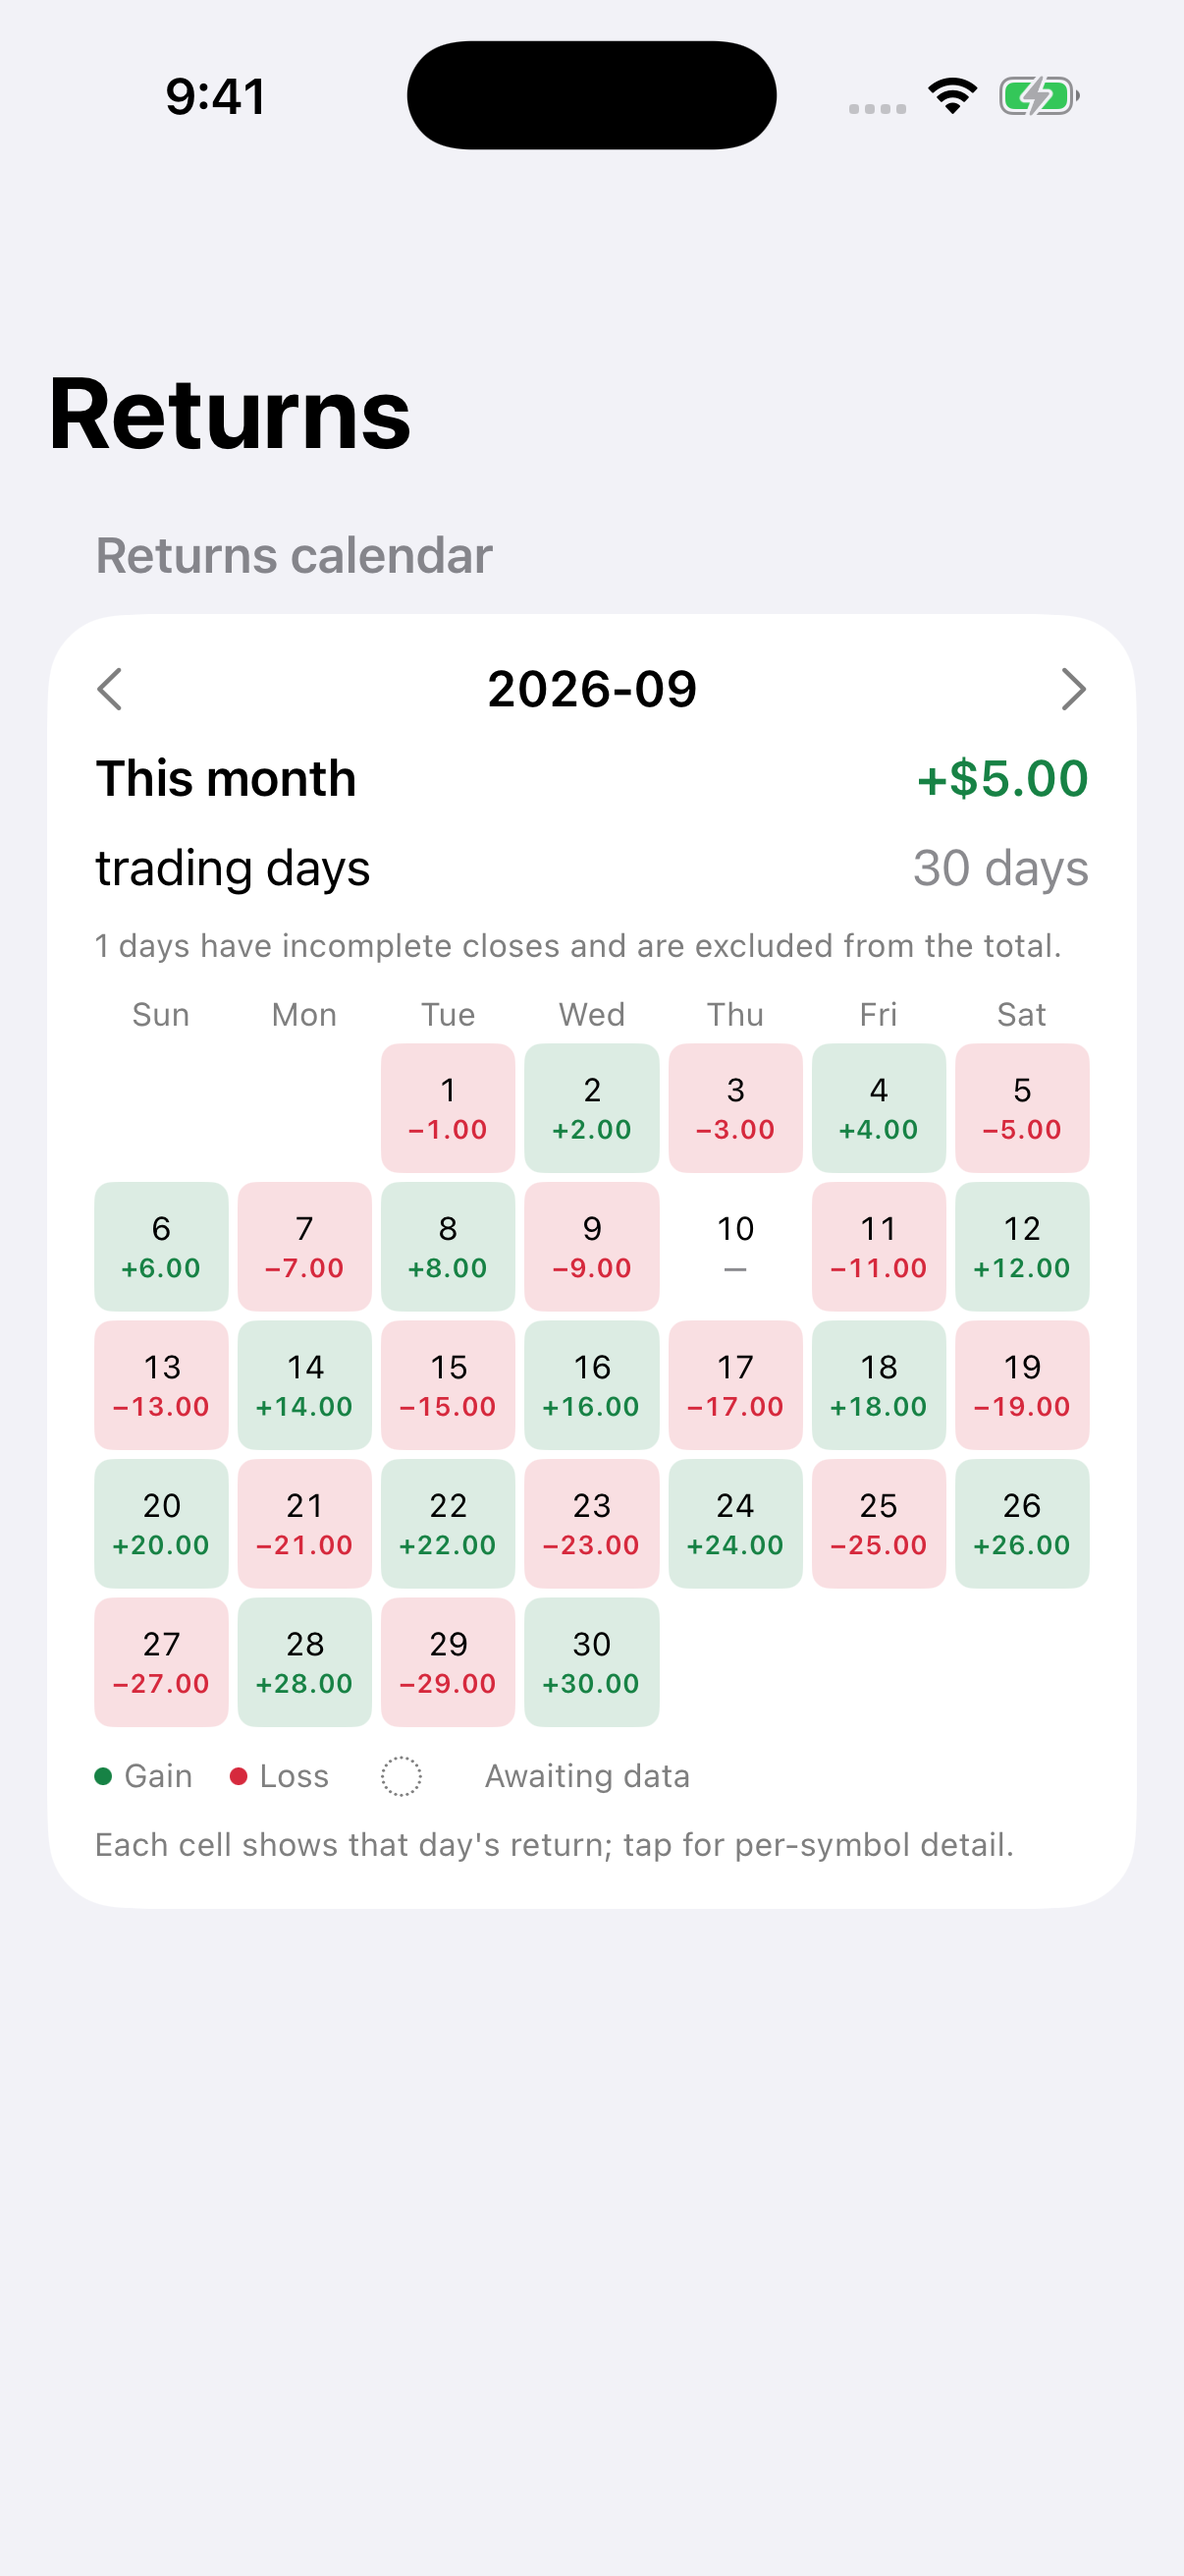
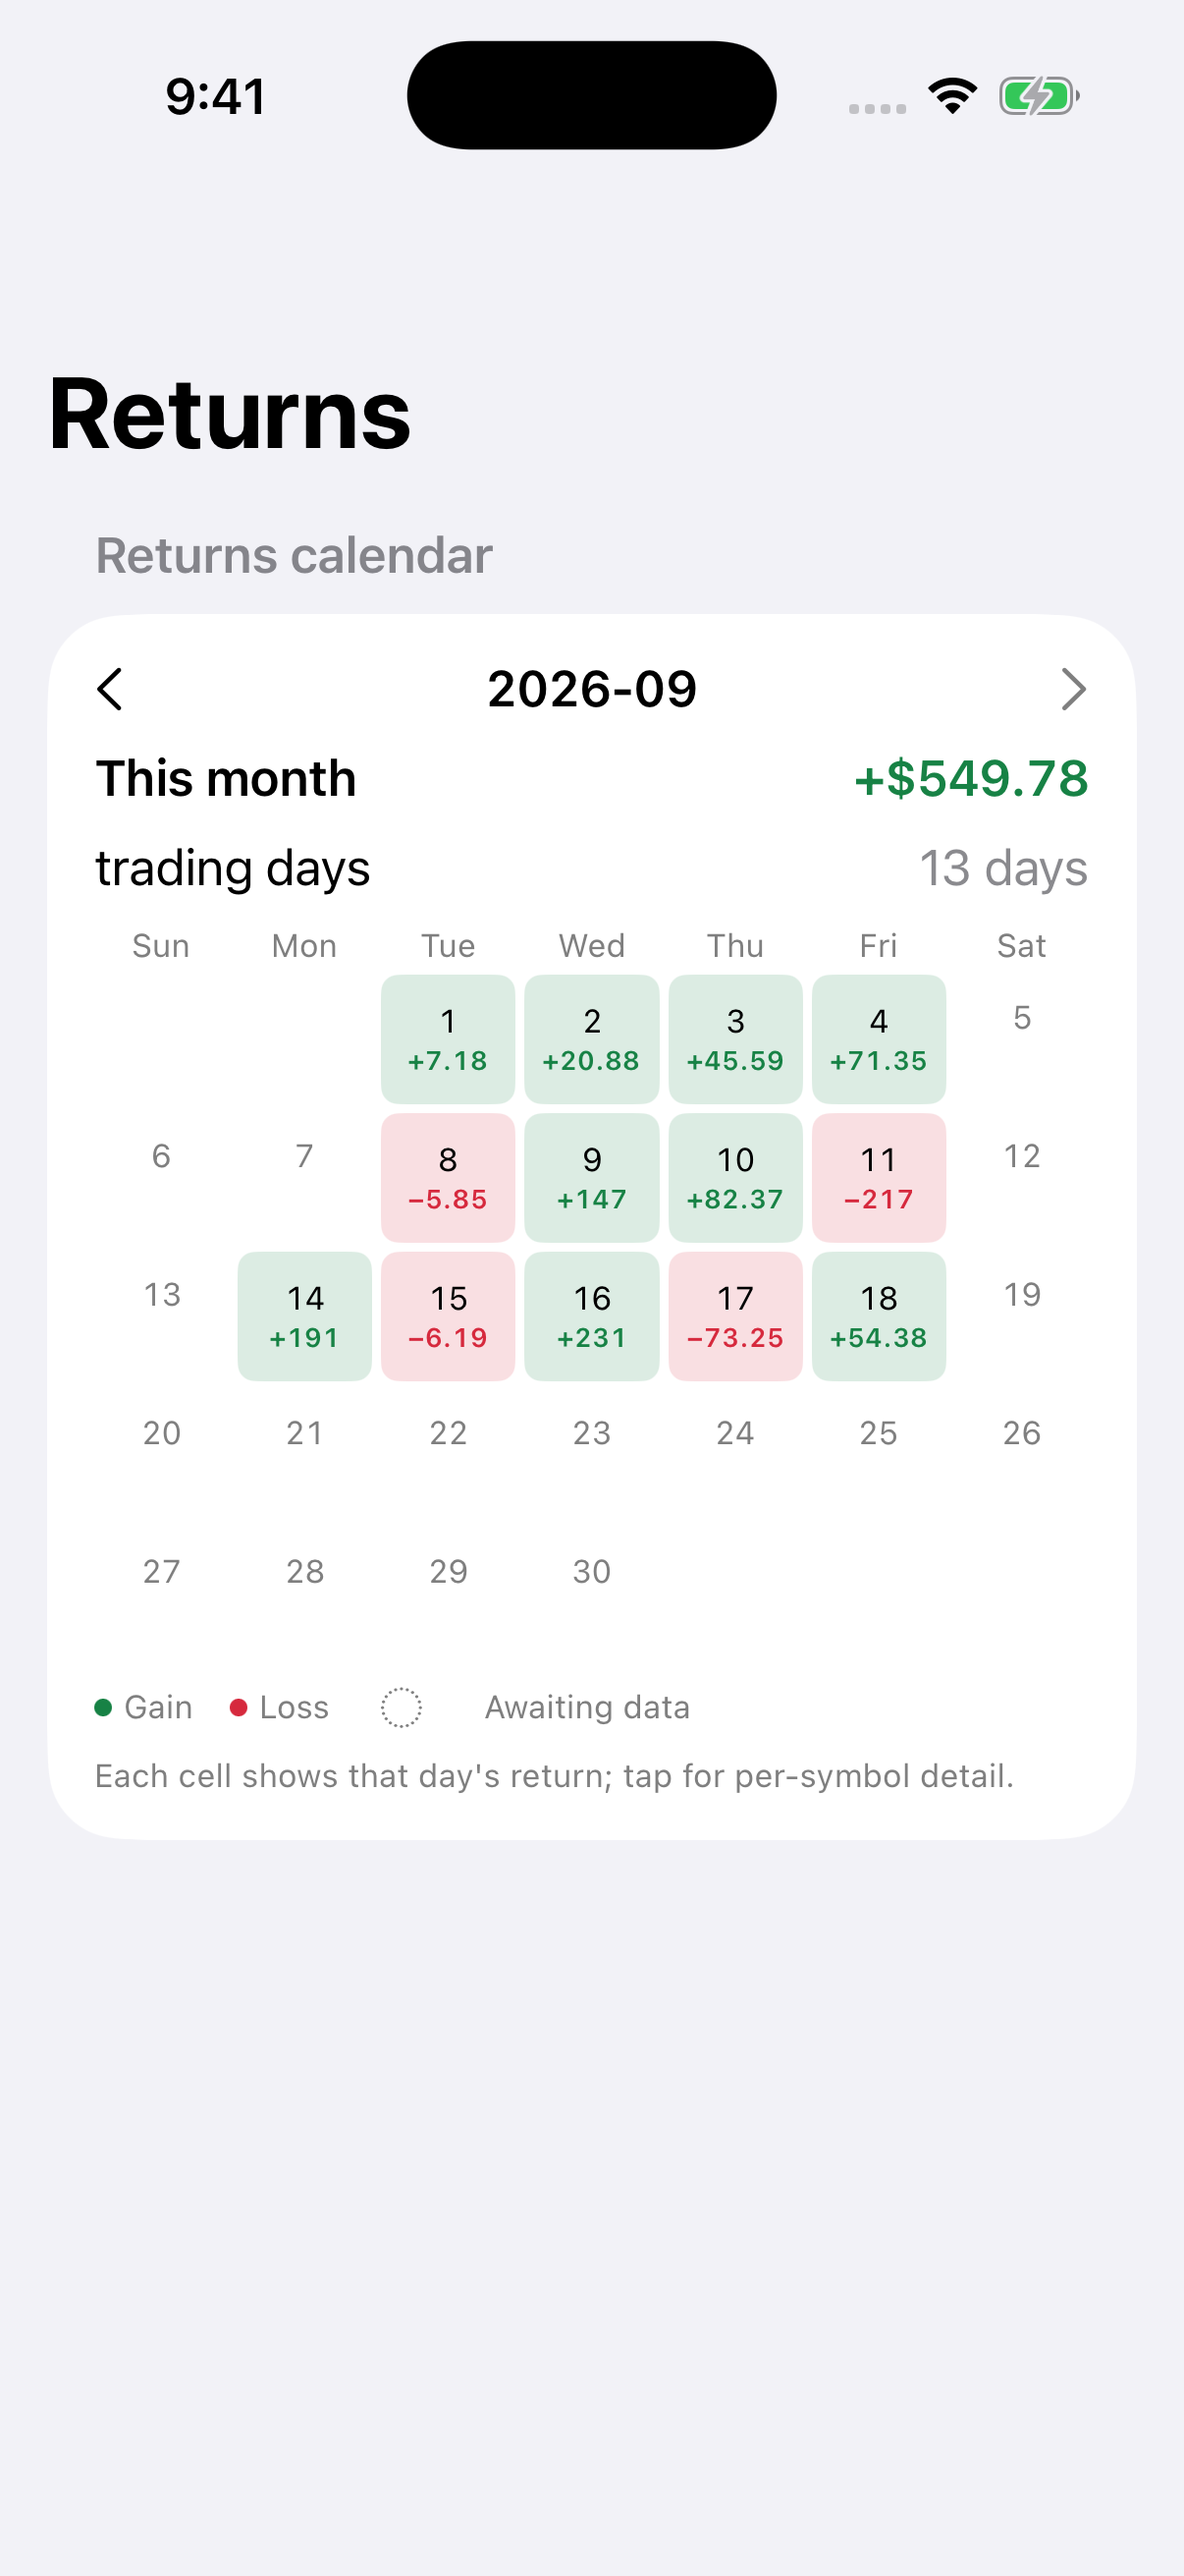
docs: add the Phase 2 review and refresh the app screenshots from the demo ledger

diff --git a/docs/PHASE_2_REVIEW.md b/docs/PHASE_2_REVIEW.md
@@ -1,0 +1,94 @@
+# Phase 2 — Portfolio Screenshot Optimization · Review
+
+> 基线：`portfolio/demo-mode` @ `d23e65c`（Phase 1 收尾）。
+> 本阶段分支：`portfolio/screenshots`（`4478957` + `caee2f0`）。**未触碰 `main`**。
+> 范围：任务书 §7 Phase 2、§13 Screenshots。
+> 出图链路：`scripts/test-screenshots.sh`（macOS 模拟器）→ CI artifact `App-screenshots` → 人工核对后落回 `docs/screenshots/`。
+
+## Files Changed
+
+### 提交 1 — `4478957` `feat(screenshots): shoot every screen from the demo ledger and add the import screen`
+
+| 文件 | 变化 | 说明 |
+| --- | --- | --- |
+| `tests/native/ScreenshotsApp.swift` | 改写取数方式 | 不再注入账本，改走真实 Demo Mode；删掉手写的 `sampleDays`；新增 `import` 屏 |
+| `ios/App/App/StockLedger/ImportView.swift` | +11 | 新增 `static var prefillOverride` 截图接缝（与 `LedgerStore.fileURLOverride` 同类，正常运行时恒为空串） |
+| `scripts/test-screenshots.sh` | +16 / −2 | 截图列表加入 `import`；新增「缺图 / 疑似空白画面即失败」守卫 |
+
+### 提交 2 — `caee2f0` `fix(l10n): translate the import field labels and the stale-quote hint, and keep the calendar screenshot live`
+
+| 文件 | 变化 | 说明 |
+| --- | --- | --- |
+| `tests/native/ScreenshotsApp.swift` | 新增 `CalendarOnlyView` | 日历屏改为订阅 `AppState` 的 `View`（根因见下） |
+| `ios/App/App/StockLedger/L10n.swift` | +6 | 6 个导入字段名的英文译文 |
+| `ios/App/App/StockLedger/HoldingsView.swift` | +2 / −1 | 不再把日期插进 L10n key |
+| `scripts/test-screenshots.sh` | +8 | 日历屏必须有收益数据才放行 |
+
+## §7 对照
+
+§7 要求 Demo Mode 下各页「不为空、不报错、没有明显布局问题、数字格式一致、日期格式一致、盈亏显示正确、没有 Debug 信息、没有 Placeholder、没有 Test Data 字样」。
+
+出图清单与 §7 页面一一对应（`scripts/test-screenshots.sh` 的循环即清单）：
+
+| §7 页面 | 截图 | 数据来源 | 结论 |
+| --- | --- | --- | --- |
+| Dashboard / Portfolio | `holdings.png` | 示例账本 + 自带报价 | 有 5 个持仓、今日盈亏、浮动/已实现收益；**不再出现 `Awaiting data` / `Missing previous close` / `No ledger backup yet`**（示例模式本就隐藏备份提醒） |
+| Transaction History | `trades.png` | 示例账本 32 笔 | 汇总与列表都有数据；日期与金额格式统一 |
+| Daily P&L Calendar | `calendar.png` | 示例账本重放的每日收益 | 2026-09：本月 +$549.78、13 个交易日、逐日红绿格子与图例（见下方缺陷 1） |
+| Performance Chart | `returns.png` | 同上 | 累计收益曲线与现金账本都有数据 |
+| Import | `import.png` | 虚构券商 CSV（`ScreenshotsApp.importCSV`） | 三步流程可见：识别到 8 列 · 6 行、字段映射、`Import 5 rows`（5 行可导入 + 1 行负数数量报错） |
+| Settings | `settings.png` | 示例账本 32 笔交易 / 12 笔流水 | 分区与数值完整 |
+
+示例数据的备注本身就带 `Sample:` 前缀（`L10n.swift:397-405`），不存在「把虚构数据当真实数据」的表述问题。
+
+## 核对产物时查出的两个缺陷
+
+出图这一步的价值就在这里：这两个问题在「CI 绿 + 图有 100+ KB」的前提下都能通过，只有把 PNG 打开逐张看才会暴露。
+
+### 缺陷 1：日历截图是空态
+
+**现象**（首次 CI 的 `calendar.png`）：显示 `No history synced yet. Sync to see daily and monthly returns.`。
+
+**根因**：不是数据问题，是我自己在 harness 里写的取数方式。原先写成普通函数 `calendarList(state)`，把 `state` 当参数传进来、在视图层级里直接读 `state.insights` —— 这种写法 **SwiftUI 不会订阅 `AppState`**，`derived` 在后台算完后这一屏不刷新，于是永远停在第一帧（空态）。日志可证：6 屏都完整走完 `HARNESS-START → state-ready → rootVC-set → key-visible → alive+3s`，没有崩溃，纯粹是没订阅。
+
+**修复**：拆出 `private struct CalendarOnlyView: View`，用 `@EnvironmentObject private var state: AppState` 持有状态（与 `InsightsView` 同一个模式）。修好后 `calendar.png` 从 108 KB 变成 204 KB，内容是真日历。
+
+### 缺陷 2：英文界面里混着中文
+
+**现象**（首次 CI 的 `import.png`）：`Date (required)` 旁边是 `代码 (required)`、`数量 (required)`、`单价 (required)`。
+
+**根因 A**：`代码` / `数量` / `单价` / `币种` / `成交编号` / `流水编号` 这 6 个 `TradeField` / `CashField` 标签在 `L10n` 里没有英文译文，`L10n.tr` 查不到就原样显示中文。已补齐。
+
+**根因 B**（顺手 grep 全部调用点发现，只有 1 处）：`HoldingsView.swift:189` 把日期插进了 key —— `L10n.tr("报价较早（\(quote.date)），可用下方按钮同步最新行情。")`。`L10n.tr` 查的是静态字典，插值后的 key 永远查不到，英文界面必然显示中文。`L10n.swift:333-334` 里本来就备好了两段译文，说明原意就是拼接。已改为按两段拼接。
+
+## 新增的持续守卫
+
+`scripts/test-screenshots.sh` 现在有两道守卫（原来的脚本只负责出图，出成什么样都算过）：
+
+1. **体积守卫**：6 张图缺一张、或小于 20 KB（疑似白屏）即 `FAIL`。
+2. **日历数据守卫**：harness 在启动 3 秒后打印 `HARNESS derived screen=<screen> days=N months=M`，脚本读统一日志，日历那一屏 `days` 或 `months` 为 0 即 `FAIL`。
+
+为什么需要第 2 条：空态截图（缺陷 1）有 100+ KB，体积守卫拦不住；而「日历必须不为空」是 §7 的硬要求，不能只靠人肉看图。
+
+## 已知问题（本轮未修，留给后续阶段）
+
+| 问题 | 位置 | 为什么不在这轮改 |
+| --- | --- | --- |
+| 交易页日期区间胶囊显示 `Sep 19, 2026 → Sep 19, 2026`，而汇总是 `In range 32 trades` | `TradesView.swift:9-10`（`from` / `to` 默认为空串，未筛选时胶囊显示今天作占位） | 这是「空筛选该显示成什么」的产品口径问题，改的是展示层行为，不该在截图阶段顺手定；建议 Phase 3 或 Phase 6 明确口径后一起改 |
+| README 截图表格仍是 5 张、没有 `import` | `README.md:84`、`README.zh-Hans.md:84` | README 属 §12 Phase 6 |
+| README 其它过期内容（`Vitest (147)` 实际 148；示例入口文案已改） | `README.md` | 同上 |
+
+## Deviations
+
+- **截图固定为英文界面**，两版 README 共用同一组图（现状如此，未改动）。
+- **未新增 iOS E2E**：§10 的 E2E 条目已按 `docs/PHASE_1_REVIEW.md` 记录的豁免处理（当前架构不支持，Phase 5 再评估）。
+- **未包含**：README 改写、LICENSE、错误处理（Phase 3）、测试覆盖扩张（Phase 4）、CI 工作流改动（Phase 5）。
+
+## CI
+
+| run | commit | 结果 |
+| --- | --- | --- |
+| `35437015307` | `4478957` | success（job `build` 10 分 21 秒） |
+| `35438530985` | `caee2f0` | success |
+
+`portfolio/*` 分支不自动触发 CI，两次均为手动 `gh workflow run build-ios.yml --ref portfolio/screenshots`。
